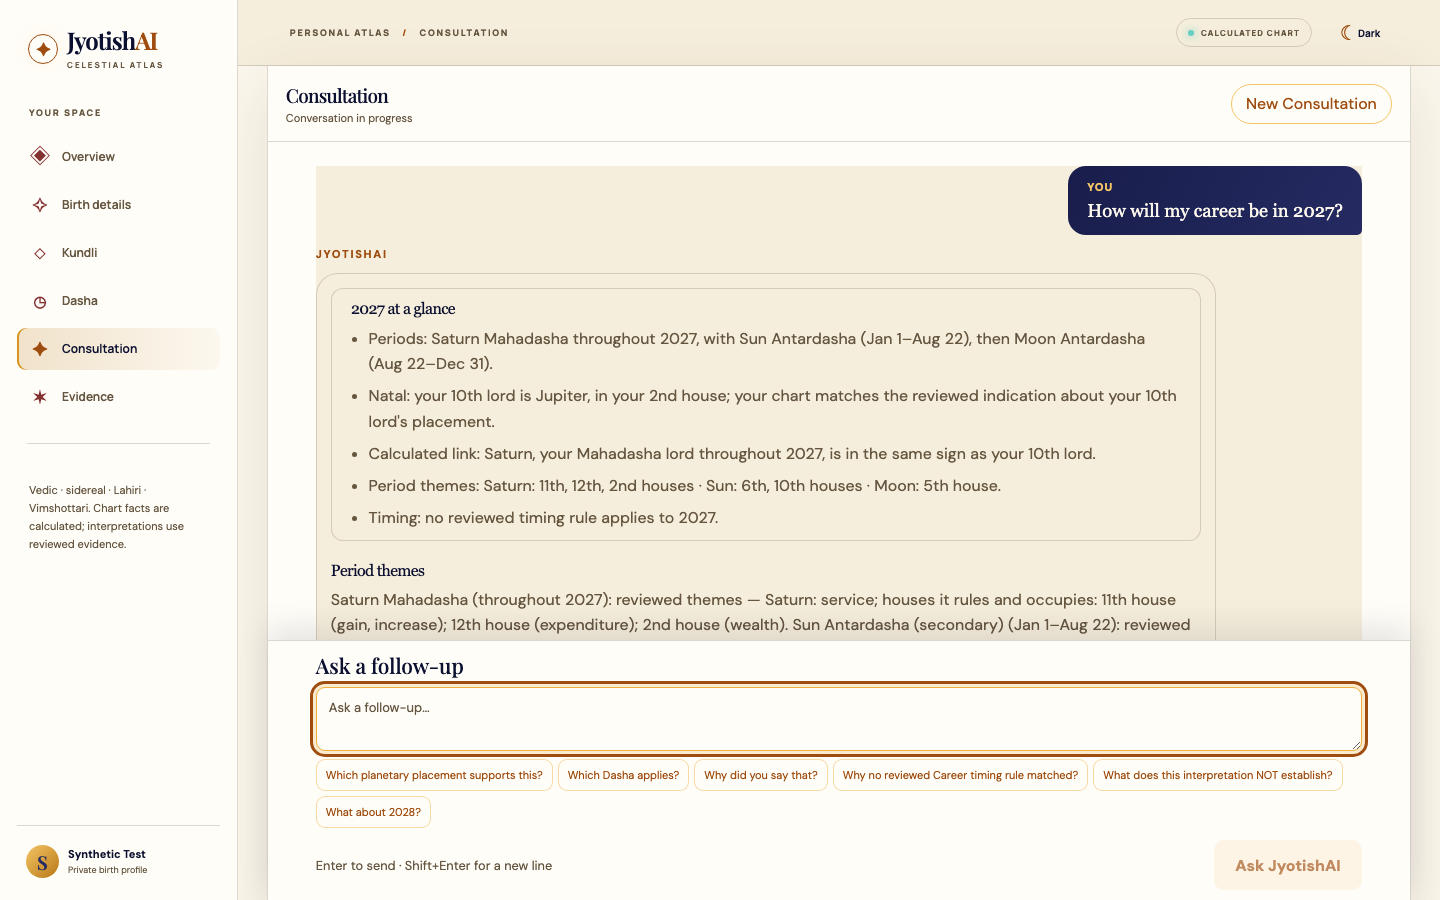
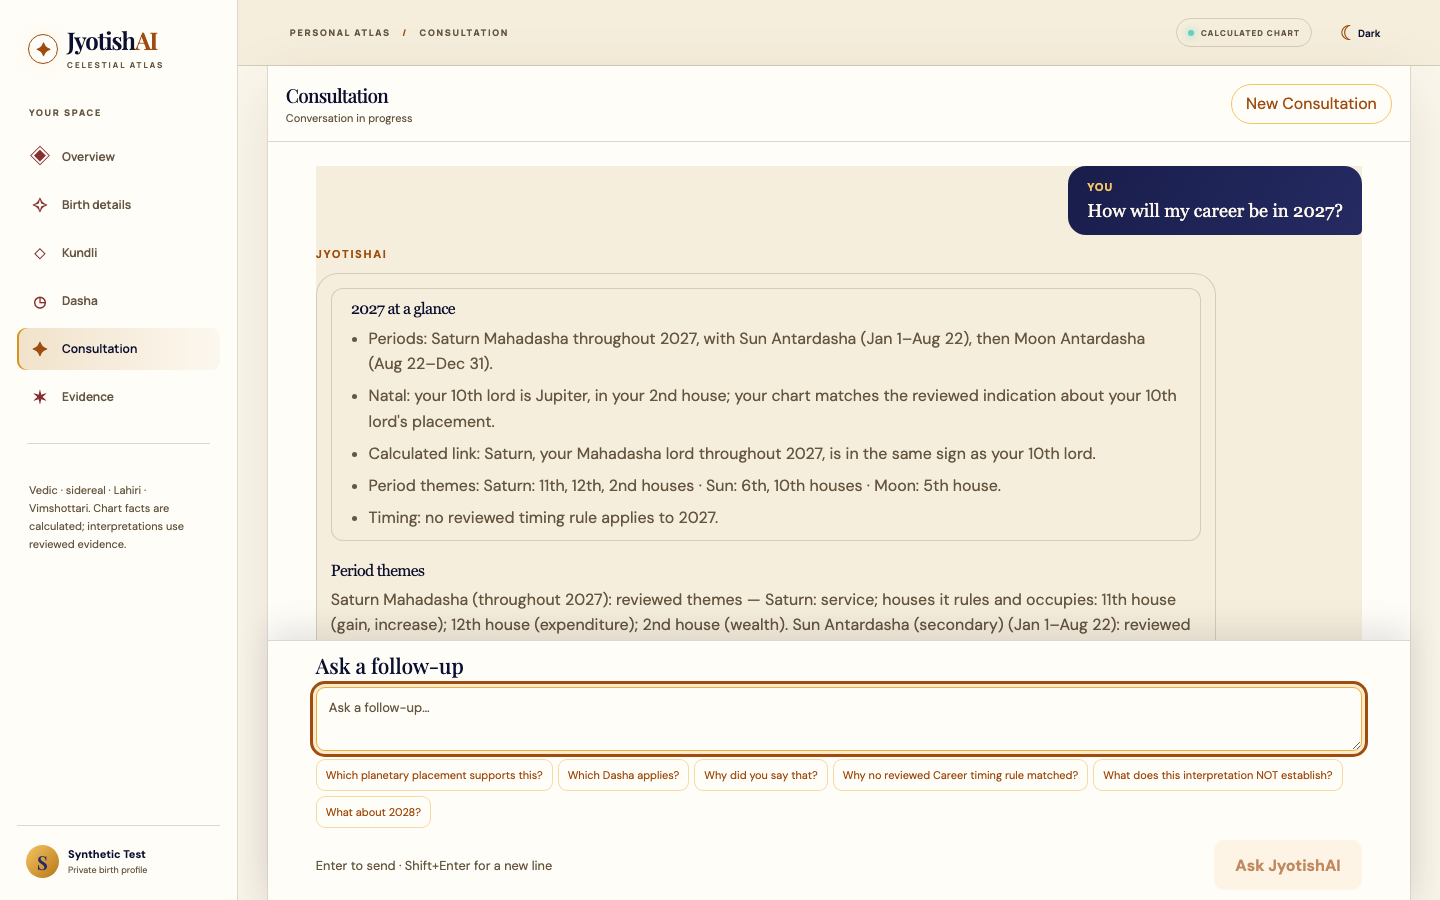
fix(web): keep text-presentation glyphs to the wheel so layout is unchanged (NEXT-UI-AMBER)
font-variant-emoji: text and a symbol font on in-flow sign glyphs changed
line-box heights (profile strip 32 -> 29 px, transit cards 191 -> 186 px).
Restrict text presentation to the absolutely positioned wheel glyphs.
A geometry diff of production builds now matches 0cb1d08 on every element
of home, chart and consultation at 1440 and 390 px, apart from the 12 wheel
glyphs. Adds scripts/visual/layout-diff.mjs; contrast audit still 0/1,732.

diff --git a/apps/web/src/theme/components.css b/apps/web/src/theme/components.css
@@ -6,9 +6,6 @@
  * earlier theme-specific rules.
  */
 
-/* Sign glyphs: render as tinted text, not as colour emoji tiles */
-.preview-app[data-preview-theme] { font-variant-emoji: text; }
-
 /* Focus: always visible, on-palette */
 .preview-app[data-preview-theme] :is(button, a, input, textarea, summary, select, [tabindex]):focus-visible {
   outline-color: var(--ui-focus);
@@ -110,7 +107,8 @@
 }
 .preview-app[data-preview-theme] .period i { color: var(--ui-accent-text); }
 
-/* Rotating zodiac wheel: gold and saffron lines on indigo */
+/* Rotating zodiac wheel: gold and saffron lines on indigo. Its glyphs are absolutely
+ * positioned SVG text, so text presentation (not emoji tiles) cannot move layout. */
 .orbit-stop-sun-0 { stop-color: var(--amber-50); }
 .orbit-stop-sun-1 { stop-color: var(--amber-300); }
 .orbit-stop-sun-2 { stop-color: var(--saffron-400); }
@@ -125,11 +123,6 @@
   fill: var(--amber-200);
   font-family: "Apple Symbols", "Segoe UI Symbol", "Noto Sans Symbols 2", "Noto Sans Symbols", Georgia, serif;
   font-variant-emoji: text;
-}
-/* Sign glyph beside the ascendant / Moon sign: tinted text, not an emoji tile */
-.preview-app[data-preview-theme] .profile-stat strong b {
-  color: var(--ui-accent-text);
-  font-family: "Apple Symbols", "Segoe UI Symbol", "Noto Sans Symbols 2", "Noto Sans Symbols", Georgia, serif;
 }
 
 /* Chart-room labels written for a dark card: re-themed for both themes */

diff --git a/docs/FRONTEND_VISUAL_SYSTEM.md b/docs/FRONTEND_VISUAL_SYSTEM.md
@@ -50,8 +50,17 @@ labels). It sets colour, background, border colour, shadow and outline only, nev
 | `--ui-glow`, `--ui-card-tint`, `--ui-shadow` | amber 22% / amber 6% / parchment-800 12% | amber 28% / amber 4% / indigo-950 40% |
 | `--planet-*` (Sun, Moon, Mars, Mercury, Jupiter, Venus, Saturn, Rahu, Ketu) | saffron-600, violet-500, maroon-500, turquoise-600, amber-700, rose-600, indigo-500, violet-700, sage-600 | saffron-300, violet-200, maroon-300, turquoise-300, amber-300, rose-200, indigo-300, violet-300, sage-200 |
 
-Zodiac and sign glyphs render as tinted text (`font-variant-emoji: text`, a symbol-font stack,
-and U+FE0E on the wheel), not as colour-emoji tiles.
+The decorative wheel's zodiac glyphs render as gold text (U+FE0E, `font-variant-emoji: text`,
+a symbol-font stack); they are absolutely positioned SVG, so this cannot move layout. The sign
+glyphs in the profile strip and transit cards still render as the operating system's colour
+emoji (violet tiles on Apple platforms): text presentation there changes line-box heights
+(transit cards 191 → 186 px), so it is left for a change that may adjust layout.
+
+**Layout unchanged.** `apps/web/scripts/visual/layout-diff.mjs` records every element's box,
+font and padding. Production builds of `0cb1d08` and the NEXT-UI-AMBER result are identical on
+home, chart and consultation at 1440 and 390 px, apart from the 12 wheel glyphs. (The dev
+server orders CSS differently from the production bundle, e.g. the composer label is 21 px in
+dev and 14.4 px in production; this predates NEXT-UI-AMBER.)
 
 **Guards.** `src/theme/tokens.test.ts` fails on any hex, `rgb()`/`hsl()`-family function or named
 colour outside `tokens.css`, on an undefined token, on a semantic token missing from either

diff --git a/docs/HANDOVER.md b/docs/HANDOVER.md
@@ -65,6 +65,9 @@ Last refreshed 2026-11-24 (NEXT-FIX-DEG-01, deployed). Current status file; `PRO
   `src/theme/tokens.test.ts` (no literals outside tokens) and `contrast.test.ts` (WCAG AA
   pairs). Rendered audit 0/1,732 text elements below AA (was 241/1,730). Palette, method and
   screenshots: `docs/FRONTEND_VISUAL_SYSTEM.md`, `docs/design/screenshots/next-ui-amber/`.
+  Layout verified unchanged against production builds (`scripts/visual/layout-diff.mjs`).
+  Not done: profile-strip/transit sign glyphs remain OS colour emoji (violet tiles on Apple);
+  text presentation there would change line heights.
 - **Tone rule** (NEXT-TONE-01, NEXT-CLEANUP-01): at most one template non-prediction sentence per answer, at the end.
   Admitted/approved text is not counted and is never reworded. Guard: `tests/test_tone.py`.
 
